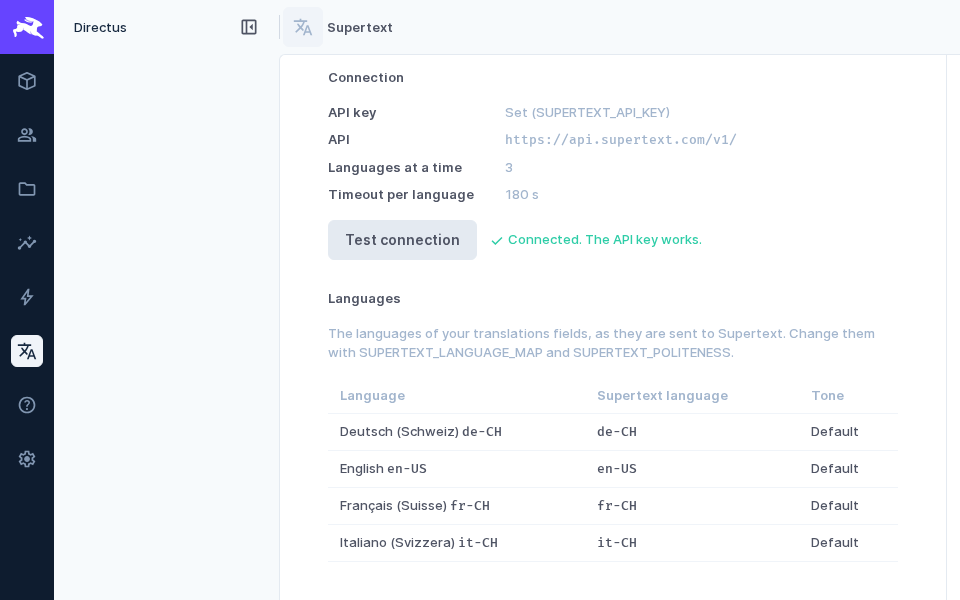
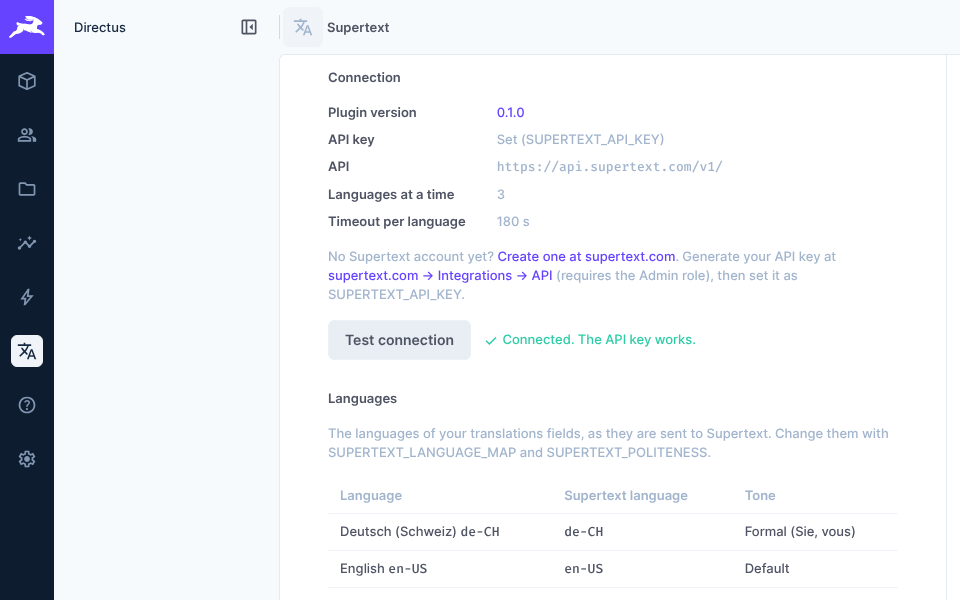
Show the extension version on the Supertext page
/supertext/status returns `version`, read at runtime from the extension's
package.json (src/api/version.ts looks upwards from dist/api.js, so it works
in the built bundle and the demo image). The Supertext page shows it under
Connection and links a release version to its GitHub release.

Claude-Session: https://claude.ai/code/session_01EnSTWcWHurd9UcMU2SVApV

diff --git a/src/module/module.vue b/src/module/module.vue
@@ -8,6 +8,11 @@
 			<template v-if="status">
 				<h2 class="type-title">{{ t.connection }}</h2>
 				<dl>
+					<dt>{{ t.version }}</dt>
+					<dd>
+						<a v-if="releaseUrl(status.version)" :href="releaseUrl(status.version)!" target="_blank" rel="noopener">{{ status.version }}</a>
+						<template v-else>{{ status.version || t.unknown }}</template>
+					</dd>
 					<dt>{{ t.apiKey }}</dt>
 					<dd>{{ status.configured ? t.keySet : t.keyMissing }}</dd>
 					<dt>{{ t.api }}</dt>
@@ -51,7 +56,7 @@ import { onMounted, ref } from 'vue';
 import { useApi } from '@directus/extensions-sdk';
 
 const en = {
-	connection: 'Connection', apiKey: 'API key', keySet: 'Set (SUPERTEXT_API_KEY)', keyMissing: 'Missing: set SUPERTEXT_API_KEY',
+	connection: 'Connection', version: 'Plugin version', unknown: 'unknown', apiKey: 'API key', keySet: 'Set (SUPERTEXT_API_KEY)', keyMissing: 'Missing: set SUPERTEXT_API_KEY',
 	api: 'API', parallel: 'Languages at a time', timeout: 'Timeout per language',
 	test: 'Test connection', ok: 'Connected. The API key works.', languages: 'Languages',
 	languagesHint: 'The languages of your translations fields, as they are sent to Supertext. Change them with SUPERTEXT_LANGUAGE_MAP and SUPERTEXT_POLITENESS.',
@@ -61,7 +66,7 @@ const en = {
 	language: 'Language', supertext: 'Supertext language', tone: 'Tone', formal: 'Formal (Sie, vous)', informal: 'Informal (du, tu)', default: 'Default',
 };
 const de: typeof en = {
-	connection: 'Verbindung', apiKey: 'API-Schlüssel', keySet: 'Gesetzt (SUPERTEXT_API_KEY)', keyMissing: 'Fehlt: SUPERTEXT_API_KEY setzen',
+	connection: 'Verbindung', version: 'Plugin-Version', unknown: 'unbekannt', apiKey: 'API-Schlüssel', keySet: 'Gesetzt (SUPERTEXT_API_KEY)', keyMissing: 'Fehlt: SUPERTEXT_API_KEY setzen',
 	api: 'API', parallel: 'Sprachen gleichzeitig', timeout: 'Zeitlimit pro Sprache',
 	test: 'Verbindung testen', ok: 'Verbunden. Der API-Schlüssel funktioniert.', languages: 'Sprachen',
 	languagesHint: 'Die Sprachen Ihrer Übersetzungsfelder, so wie sie an Supertext gesendet werden. Ändern lässt sich das mit SUPERTEXT_LANGUAGE_MAP und SUPERTEXT_POLITENESS.',
@@ -72,6 +77,8 @@ const de: typeof en = {
 };
 const signupUrl = 'https://www.supertext.com/person/en/account/signin';
 const apiKeyUrl = 'https://www.supertext.com/en/integrations/api';
+/** GitHub release page for a release version (X.Y.Z). */
+const releaseUrl = (v: unknown) => (typeof v === 'string' && /^\d+\.\d+\.\d+$/.test(v) ? `https://github.com/Supertext/Directus-Supertext-Translation/releases/tag/v${v}` : null);
 const t = (document.documentElement.lang || 'en').toLowerCase().startsWith('de') ? de : en;
 
 const api = useApi();
@@ -111,7 +118,7 @@ dd { margin: 0; }
 .ok { color: var(--theme--success); }
 .fail { color: var(--theme--danger); }
 .hint { color: var(--theme--foreground-subdued); margin: 0; }
-.hint a { color: var(--theme--primary); }
+.hint a, dd a { color: var(--theme--primary); }
 table { border-collapse: collapse; width: 100%; }
 th, td { text-align: left; padding: 8px 12px; border-bottom: 1px solid var(--theme--border-color-subdued); }
 th { color: var(--theme--foreground-subdued); font-weight: 600; }

diff --git a/test/endpoint.test.ts b/test/endpoint.test.ts
@@ -1,0 +1,50 @@
+import { readFileSync } from 'node:fs';
+import { describe, expect, it } from 'vitest';
+import endpoint from '../src/endpoint/index.js';
+import { extensionVersion } from '../src/api/version.js';
+
+const pkg = JSON.parse(readFileSync(new URL('../package.json', import.meta.url), 'utf8'));
+
+/** Registers the endpoint on a fake router and returns its GET /status handler. */
+function statusHandler() {
+	const routes: Record<string, (req: any, res: any) => Promise<void>> = {};
+	const router: any = {
+		get: (path: string, fn: any) => (routes[`GET ${path}`] = fn),
+		post: (path: string, fn: any) => (routes[`POST ${path}`] = fn),
+	};
+	const config: any = typeof endpoint === 'function' ? { handler: endpoint } : endpoint;
+	config.handler(router, { services: {}, getSchema: async () => ({ collections: {}, relations: [] }), env: {}, logger: { error() {}, warn() {} } });
+	return routes['GET /status'];
+}
+
+function call(handler: any, req: any) {
+	return new Promise<{ status: number; body: any }>((resolve) => {
+		let status = 200;
+		const res: any = { status: (s: number) => ((status = s), res), json: (body: any) => resolve({ status, body }) };
+		handler(req, res);
+	});
+}
+
+describe('GET /supertext/status', () => {
+	it('returns the version from package.json', async () => {
+		const { status, body } = await call(statusHandler(), { accountability: { user: 'u1', admin: true } });
+		expect(status).toBe(200);
+		expect(body.data.version).toBe(pkg.version);
+		expect(body.data.languages).toEqual([]);
+	});
+
+	it('refuses non-admins', async () => {
+		const { status } = await call(statusHandler(), { accountability: { user: 'u1', admin: false } });
+		expect(status).toBe(403);
+	});
+});
+
+describe('extensionVersion', () => {
+	it('finds the package.json above the built bundle', () => {
+		expect(extensionVersion(new URL('../dist', import.meta.url).pathname)).toBe(pkg.version);
+	});
+
+	it('is null outside the package', () => {
+		expect(extensionVersion('/')).toBeNull();
+	});
+});

diff --git a/src/api/version.ts b/src/api/version.ts
@@ -1,0 +1,36 @@
+import { existsSync, readFileSync } from 'node:fs';
+import { dirname, join } from 'node:path';
+import { fileURLToPath } from 'node:url';
+
+const PACKAGE_NAME = 'directus-extension-supertext-translation';
+let cached: string | null | undefined;
+
+/**
+ * The extension's version, read at runtime from its own package.json (the only place it is
+ * kept). Looks upwards from this file, so it works from `src/` (tests) and from the built
+ * `dist/api.js` next to the installed package.json. Null if it can't be found.
+ */
+export function extensionVersion(start: string = dirname(fileURLToPath(import.meta.url))): string | null {
+	if (cached !== undefined && arguments.length === 0) return cached;
+	let version: string | null = null;
+	for (let dir = start, i = 0; i < 6; i++) {
+		const file = join(dir, 'package.json');
+		if (existsSync(file)) {
+			try {
+				const pkg = JSON.parse(readFileSync(file, 'utf8'));
+				if (pkg?.name === PACKAGE_NAME && typeof pkg.version === 'string') {
+					version = pkg.version;
+					break;
+				}
+			} catch {
+				// unreadable package.json: keep looking
+			}
+		}
+		const parent = dirname(dir);
+		if (parent === dir) break;
+		dir = parent;
+	}
+	if (arguments.length === 0) cached = version;
+	return version;
+}
+

diff --git a/src/endpoint/index.ts b/src/endpoint/index.ts
@@ -3,11 +3,12 @@ import { readConfig } from '../api/config.js';
 import { findTranslationsRelation, loadItem, translateItem, TranslateError } from '../api/translator.js';
 import { SupertextClient, SupertextError } from '../shared/supertext-client.js';
 import { politenessFor, targetCode } from '../shared/languages.js';
+import { extensionVersion } from '../api/version.js';
 
 /**
  * /supertext/info       GET  ?collection=&item=&field=   languages, fields, whether a key is set
  * /supertext/translate  POST { collection, item, field?, source?, targets?, fields?, save? }
- * /supertext/status     GET  configuration and languages (admins; the Supertext module)
+ * /supertext/status     GET  version, configuration and languages (admins; the Supertext module)
  * /supertext/test       POST cost-free check of the API key (admins)
  *
  * Both run with the signed-in user's permissions. `save` defaults to false: the item
@@ -58,6 +59,7 @@ export default defineEndpoint({
 				}
 				res.json({
 					data: {
+						version: extensionVersion(),
 						configured: config.apiKey !== '',
 						baseUrl: config.baseUrl,
 						concurrency: config.concurrency,

diff --git a/docs/DEVELOPER.md b/docs/DEVELOPER.md
@@ -11,7 +11,7 @@ src/
   interface/               "Supertext translation" presentation interface (Vue 3) for the item form
     index.ts               definition + options (translationsField, sourceLanguage, fields)
     interface.vue          languages, replace warning, puts translations into the form (setFieldValue)
-  module/                  "Supertext" page for administrators (route /admin/supertext): configuration,
+  module/                  "Supertext" page for administrators (route /admin/supertext): version, configuration,
                            languages with Supertext code and tone, Test connection
   operation/               Flow operation "Supertext: translate" (id supertext-translate-flow)
     app.ts                 options UI
@@ -19,6 +19,7 @@ src/
   api/
     config.ts              SUPERTEXT_* environment variables (raw process.env first: Directus splits values at commas)
     translator.ts          relation discovery, permission check, document per item, one request per language, save
+    version.ts             extension version, read at runtime from package.json
   shared/
     codecs.ts              field value ⇄ pieces: text, HTML (block by block), markdown (line/block based)
     document.ts            HTML document with data-st-id elements; parse the response
@@ -83,7 +84,7 @@ HTTP 429 (`RATE_LIMIT_EXCEEDED`) is retried up to 4 times (`Retry-After`, else 1
 
 `POST /supertext/translate` → `{ collection, item, field, source, fields, results: [{ language, ok, values, id, created, missing, saved } | { language, ok: false, error, code }] }`
 
-`GET /supertext/status` (administrators) → `{ configured, baseUrl, concurrency, timeoutSeconds, languages: [{ collection, code, name, target, politeness }] }`: every languages collection used by a translations field.
+`GET /supertext/status` (administrators) → `{ version, configured, baseUrl, concurrency, timeoutSeconds, languages: [{ collection, code, name, target, politeness }] }`: `version` is read at runtime from the extension's `package.json` (`src/api/version.ts`, looking upwards from `dist/api.js`; `null` if not found; the page links an `X.Y.Z` version to its GitHub release). `languages` covers every languages collection used by a translations field.
 
 `POST /supertext/test` (administrators) → `{ ok: true }` after `GET features` on the Supertext API (cost-free key check). A rejected key comes back as 502, never 401 (a 401 would sign the admin out of the app).
 
@@ -112,6 +113,7 @@ npm run test:integration # builds, then starts a real Directus 12 (SQLite) — i
 - `test/codecs.test.ts`: text/HTML/markdown round trips, block segmentation, tables, missing segments, field kinds.
 - `test/supertext-client.test.ts`: protocol, multipart, status/HTTP errors, 429 retries, key prefix.
 - `test/config.test.ts`: settings, including JSON values Directus has split at commas.
+- `test/endpoint.test.ts`: `/status` returns the version from `package.json` and refuses non-admins.
 - `test/demo-check.sh` (CI, needs Docker, PostgreSQL and the stand-in): starts the demo image twice, checks that the demo accounts exist exactly once and no password is logged, `/status` and `/test` as admin (403 for the editor), and translates and saves the first sample article as the editor.
 - `test/integration/directus.test.ts`: Directus 12.4 in a temp folder with the built bundle and the demo setup hook, Supertext replaced by `fake-supertext-server.ts` (prefixes `[<lang>] `). Demo setup (languages, articles, accounts, no passwords in the log), `/info`, translating without saving, structure of rich text, failed languages, unknown languages/missing source, read-only users get 403 and send nothing, saving through the parent and updating the same row, the Flow operation with a manual trigger, and translate-on-create without a loop.
 

diff --git a/docs/INSTALLATION.md b/docs/INSTALLATION.md
@@ -61,11 +61,11 @@ JSON values can be written as they are, commas included (Directus would normally
 
 ### The Supertext page
 
-The bundle adds a **Supertext** page for administrators: whether a key is set (with links to create a Supertext account and generate the key), which API is used, how many languages run at a time, the timeout, every language of your translations fields with the Supertext code and tone it is sent with, and a **Test connection** button (a cost-free call to the Supertext API that checks the key).
+The bundle adds a **Supertext** page for administrators: the installed plugin version (linked to its release notes on GitHub), whether a key is set (with links to create a Supertext account and generate the key), which API is used, how many languages run at a time, the timeout, every language of your translations fields with the Supertext code and tone it is sent with, and a **Test connection** button (a cost-free call to the Supertext API that checks the key).
 
 Directus hides new modules until they're switched on: *Settings → Settings → Module Bar*, enable **Supertext**. Only administrators see it.
 
-![The Supertext page: API key set, live API address, languages at a time, timeout, Test connection with "Connected. The API key works." and the language table with Supertext codes and tone](images/09-supertext-module.png)
+![The Supertext page: plugin version, API key set, live API address, languages at a time, timeout, Test connection with "Connected. The API key works." and the language table with Supertext codes and tone](images/09-supertext-module.png)
 
 ## Language setup
 

diff --git a/CHANGELOG.md b/CHANGELOG.md
@@ -4,6 +4,10 @@ All notable changes to this project are documented here. Format: [Keep a Changel
 
 ## [Unreleased]
 
+### Added
+
+- The Supertext page shows the plugin version (from `package.json`), linked to its release on GitHub; `/supertext/status` returns it as `version`.
+
 ## [0.1.0] - 2026-10-07
 
 ### Added
